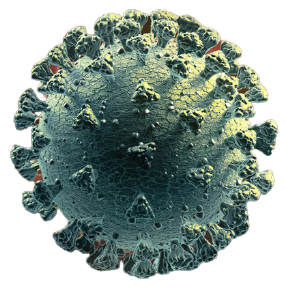
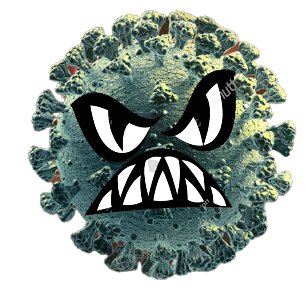
Sound Singleton and New Resources
Added sound class (singleton class).
Added new texture:
Main menu back ground.
Improve enemies textures.

diff --git a/src/Player.cpp b/src/Player.cpp
@@ -92,11 +92,6 @@ void Player::addScore(int score) {
         m_score += score;
 }
 //=============================================================================
-void Player::isDisposed() {
-    GameObject::isDisposed();
-    m_lives--;
-}
-//=============================================================================
 void Player::handleCollision(GameObject &gameObject, const sf::Vector2f &keyPressed) {
     if(this == &gameObject)
         return;
@@ -113,7 +108,7 @@ void Player::handleCollision(StupidEnemy &gameObject, const sf::Vector2f & keyPr
     }
 
     isDisposed();
-
+    m_lives--;
     std::cout << m_lives << std::endl;
     std::cout << "StupidEnemy" << std::endl;
 }
@@ -127,7 +122,7 @@ void Player::handleCollision(RandEnemy &gameObject, const sf::Vector2f & keyPres
     }
 
     isDisposed();
-
+    m_lives--;
     std::cout << m_lives << std::endl;
     std::cout << "RandEnemy" << std::endl;
 }
@@ -141,7 +136,7 @@ void Player::handleCollision(SmartEnemy &gameObject, const sf::Vector2f & keyPre
     }
 
     isDisposed();
-
+    m_lives--;
     std::cout << m_lives << std::endl;
     std::cout << "SmartEnemy" << std::endl;
 }
@@ -159,6 +154,7 @@ void Player::handleCollision(Wall & wall, const sf::Vector2f &) {
     if(!wall.checkDisposed()) {
         if (wall.getGlobalBounds().contains(getPosition())) {
             isDisposed();
+            m_lives--;
         }
         setLastPosition();
     }

diff --git a/include/Macros.h b/include/Macros.h
@@ -1,8 +1,8 @@
 #pragma once
 
 enum ScreenType_t {MAIN_MENU, STAGE, STAGE_CONSTRUCTION, EXIT};
-enum Sounds_t {COLLISION_ENEMY, COLLISION_COIN, CANT_MOVE, FINISHED_LEVEL, LOW_TIME};
-enum Textures_t {PLAYER, STUPID_ENEMY_TEXT, RAND_ENEMY_TEXT, SMART_ENEMY_TEXT, WALL, COIN, LADDER, POLE, GIFT, STAGE_DETAILS, STAGE_BACKGROUND};
+enum Sounds_t {COLLISION_ENEMY, COLLISION_COIN, LEVEL_FINISH, LOW_TIME};
+enum Textures_t {PLAYER, STUPID_ENEMY_TEXT, RAND_ENEMY_TEXT, SMART_ENEMY_TEXT, WALL, COIN, LADDER, POLE, GIFT, STAGE_DETAILS, STAGE_BACKGROUND, MENU_BACKGROUND};
 enum EnemyType_t {STUPID_ENEMY, RAND_ENEMY, SMART_ENEMY};
 enum GiftType_t {LIVE_GIFT, SCORE_GIFT, TIME_GIFT, ENEMY_GIFT};
 
@@ -12,8 +12,8 @@ const int MENU_BUTTON_HEIGHT = 100;
 const int GRAY = 100;
 const int MENU_BUTTON_WIDTH = WINDOW_WIDTH / 3;
 const int STAGE_DETAILS_SIZE = 50;
-const int NUM_OF_TEXTURES = 11;
-const int NUM_OF_SOUNDS = 5;
+const int NUM_OF_TEXTURES = 12;
+const int NUM_OF_SOUNDS = 4;
 const int THICKNESS = 7;
 const int NO_THICKNESS = 0;
 const int START_LEVEL = 1;

diff --git a/src/Sound.cpp b/src/Sound.cpp
@@ -1,0 +1,22 @@
+#include "Sound.h"
+
+Sound::Sound()
+{
+    m_soundBuffer.resize(NUM_OF_SOUNDS);
+    m_sounds.resize(NUM_OF_SOUNDS);
+
+    m_soundBuffer[COLLISION_COIN].loadFromFile("SyringeSound.ogg");
+    m_sounds[COLLISION_COIN].setBuffer(m_soundBuffer[COLLISION_COIN]);
+
+}
+//=============================================================================
+Sound &Sound::soundObject() {
+    static Sound soundObject;
+
+    return soundObject;
+}
+//=============================================================================
+void Sound::play(enum Sounds_t sound){
+    m_sounds[sound].play();
+}
+//=============================================================================

diff --git a/src/MovingObject.cpp b/src/MovingObject.cpp
@@ -71,6 +71,13 @@ void MovingObject::handleCollision(Coin &gameObject, const sf::Vector2f & keyPre
     }
 }
 //=============================================================================
+void MovingObject::handleCollision(Wall & wall, const sf::Vector2f &) {
+    setInTheAir(false);
+
+    if(!wall.checkDisposed())
+        setLastPosition();
+}
+//=============================================================================
 void MovingObject::handleCollision(Pole &gameObject, const sf::Vector2f & keyPressed) {
     setInTheAir(false);
     //setOnLadder(false);

diff --git a/include/MovingObject.h b/include/MovingObject.h
@@ -25,6 +25,7 @@ public:
     virtual void handleCollision(RandEnemy &, const sf::Vector2f &) override;
     virtual void handleCollision(SmartEnemy &, const sf::Vector2f &) override;
     virtual void handleCollision(Coin &, const sf::Vector2f &) override;
+    virtual void handleCollision(Wall &, const sf::Vector2f &) override;
     virtual void handleCollision(Pole &, const sf::Vector2f &) override;
     virtual void handleCollision(Ladder &, const sf::Vector2f &) override;
     virtual void handleCollision(LiveGift &, const sf::Vector2f &) override;

diff --git a/src/GameController.cpp b/src/GameController.cpp
@@ -9,7 +9,7 @@ GameController::GameController() : m_currentScreen(MAIN_MENU){
 //=============================================================================
 void GameController::Run() {
 
-    auto window = sf::RenderWindow(sf::VideoMode(WINDOW_WIDTH, WINDOW_HEIGHT), "Lode Runner", sf::Style::Fullscreen);
+    auto window = sf::RenderWindow(sf::VideoMode(WINDOW_WIDTH, WINDOW_HEIGHT), "Lode Runner");
     window.setFramerateLimit(60);
 
     while(window.isOpen())

diff --git a/src/Textures.cpp b/src/Textures.cpp
@@ -15,6 +15,7 @@ Textures::Textures()
     m_textures[GIFT].loadFromFile("Gift.png");
     m_textures[STAGE_DETAILS].loadFromFile("StageDetails.jpg");
     m_textures[STAGE_BACKGROUND].loadFromFile("StageBackGround.png");
+    m_textures[MENU_BACKGROUND].loadFromFile("MenuBackGround.png");
 }
 //=======================================================================
 Textures & Textures::texturesObject(){

diff --git a/include/Sound.h b/include/Sound.h
@@ -1,0 +1,22 @@
+#pragma once
+
+#include <SFML/Audio.hpp>
+#include <memory>
+#include "Macros.h"
+
+
+class Sound {
+
+public:
+    static Sound & soundObject();
+    void play(enum Sounds_t);
+
+private:
+    Sound();
+    Sound(const Sound &) = default;
+    Sound & operator=(const Sound &) = default;
+
+
+    std::vector<sf::SoundBuffer> m_soundBuffer;
+    std::vector<sf::Sound> m_sounds;
+};

diff --git a/src/Enemy.cpp b/src/Enemy.cpp
@@ -23,6 +23,7 @@ bool Enemy::getLocked() const {
 }
 //=============================================================================
 void Enemy::handleCollision(Wall & wall, const sf::Vector2f & keyPressed) {
+    setInTheAir(false);
 
     if(!wall.checkDisposed())
         setLastPosition();

diff --git a/src/Stage.cpp b/src/Stage.cpp
@@ -241,8 +241,6 @@ void Stage::createEnemy(const int row, const int col){
 
     auto enemy = (enum EnemyType_t) (rand() % MOD3);
 
-    enemy = STUPID_ENEMY;
-
     switch(enemy)
     {
         case STUPID_ENEMY:

diff --git a/include/Player.h b/include/Player.h
@@ -35,7 +35,6 @@ public:
     void addScore(int);
     void gravity(const float &);
 
-    virtual void isDisposed();
     using MovingObject::handleCollision;
 
     //---Collision Function Section---
